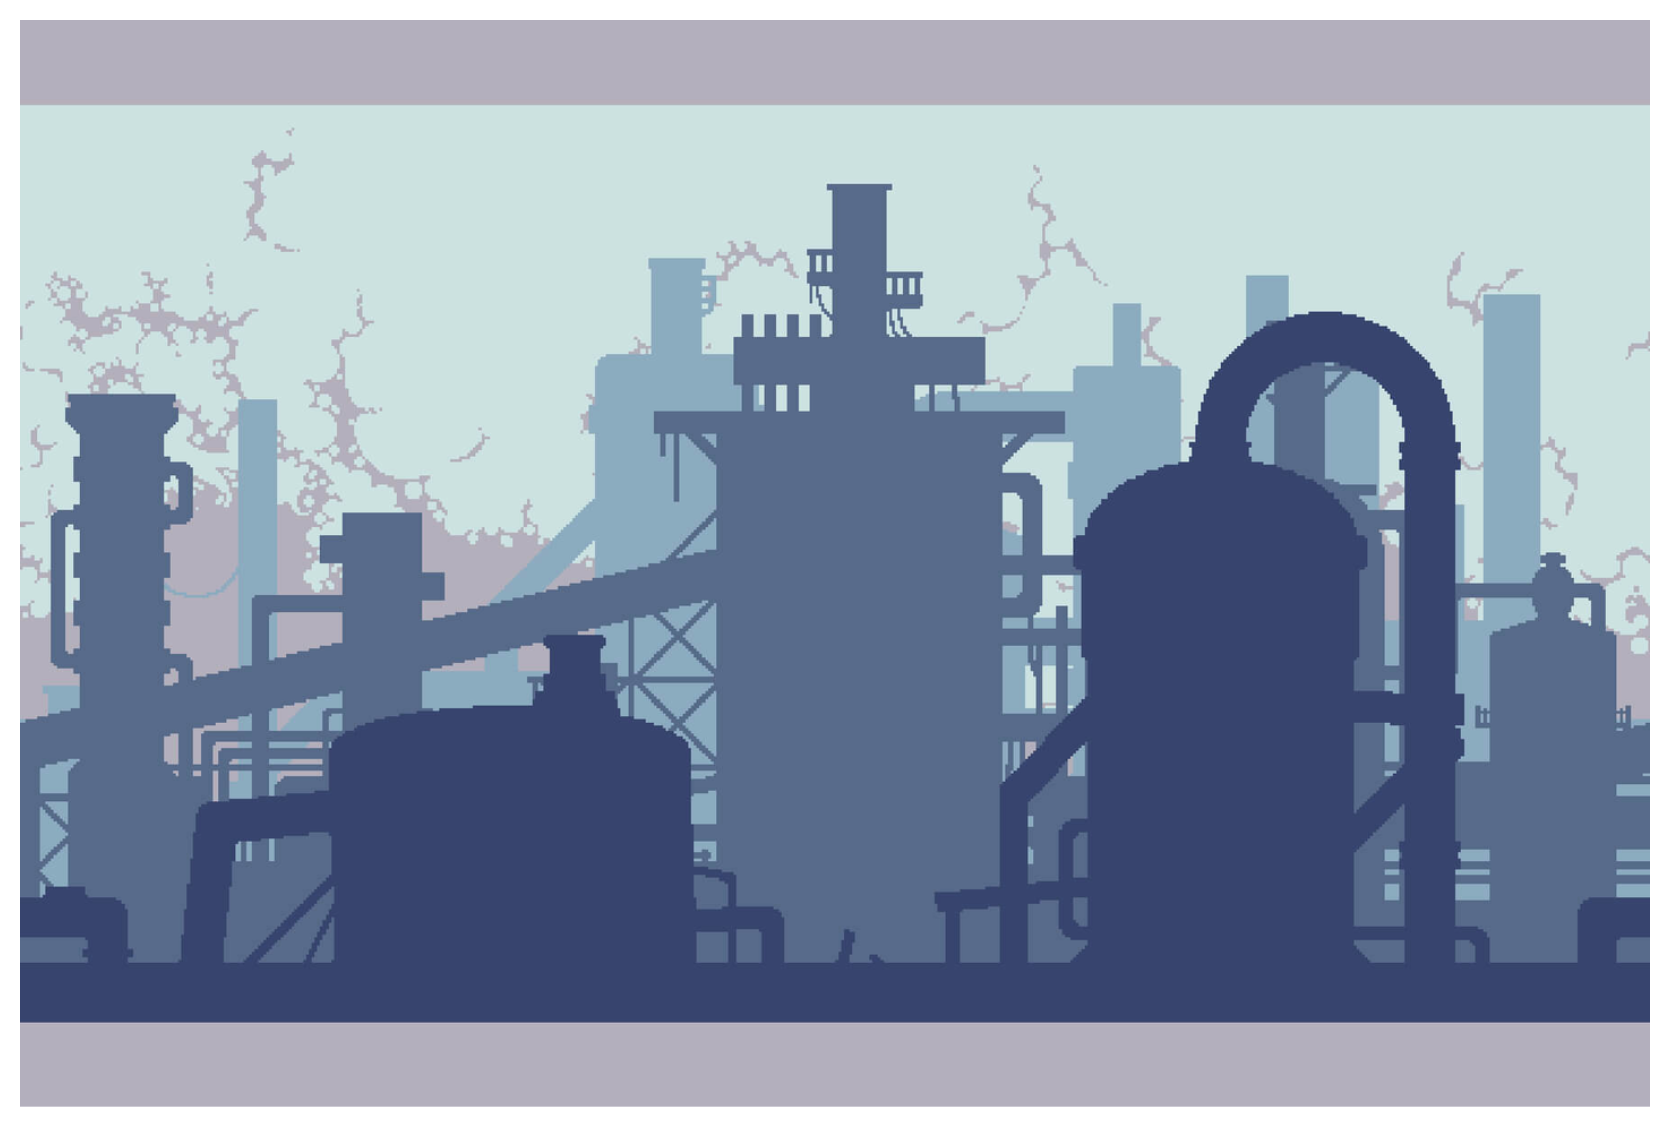
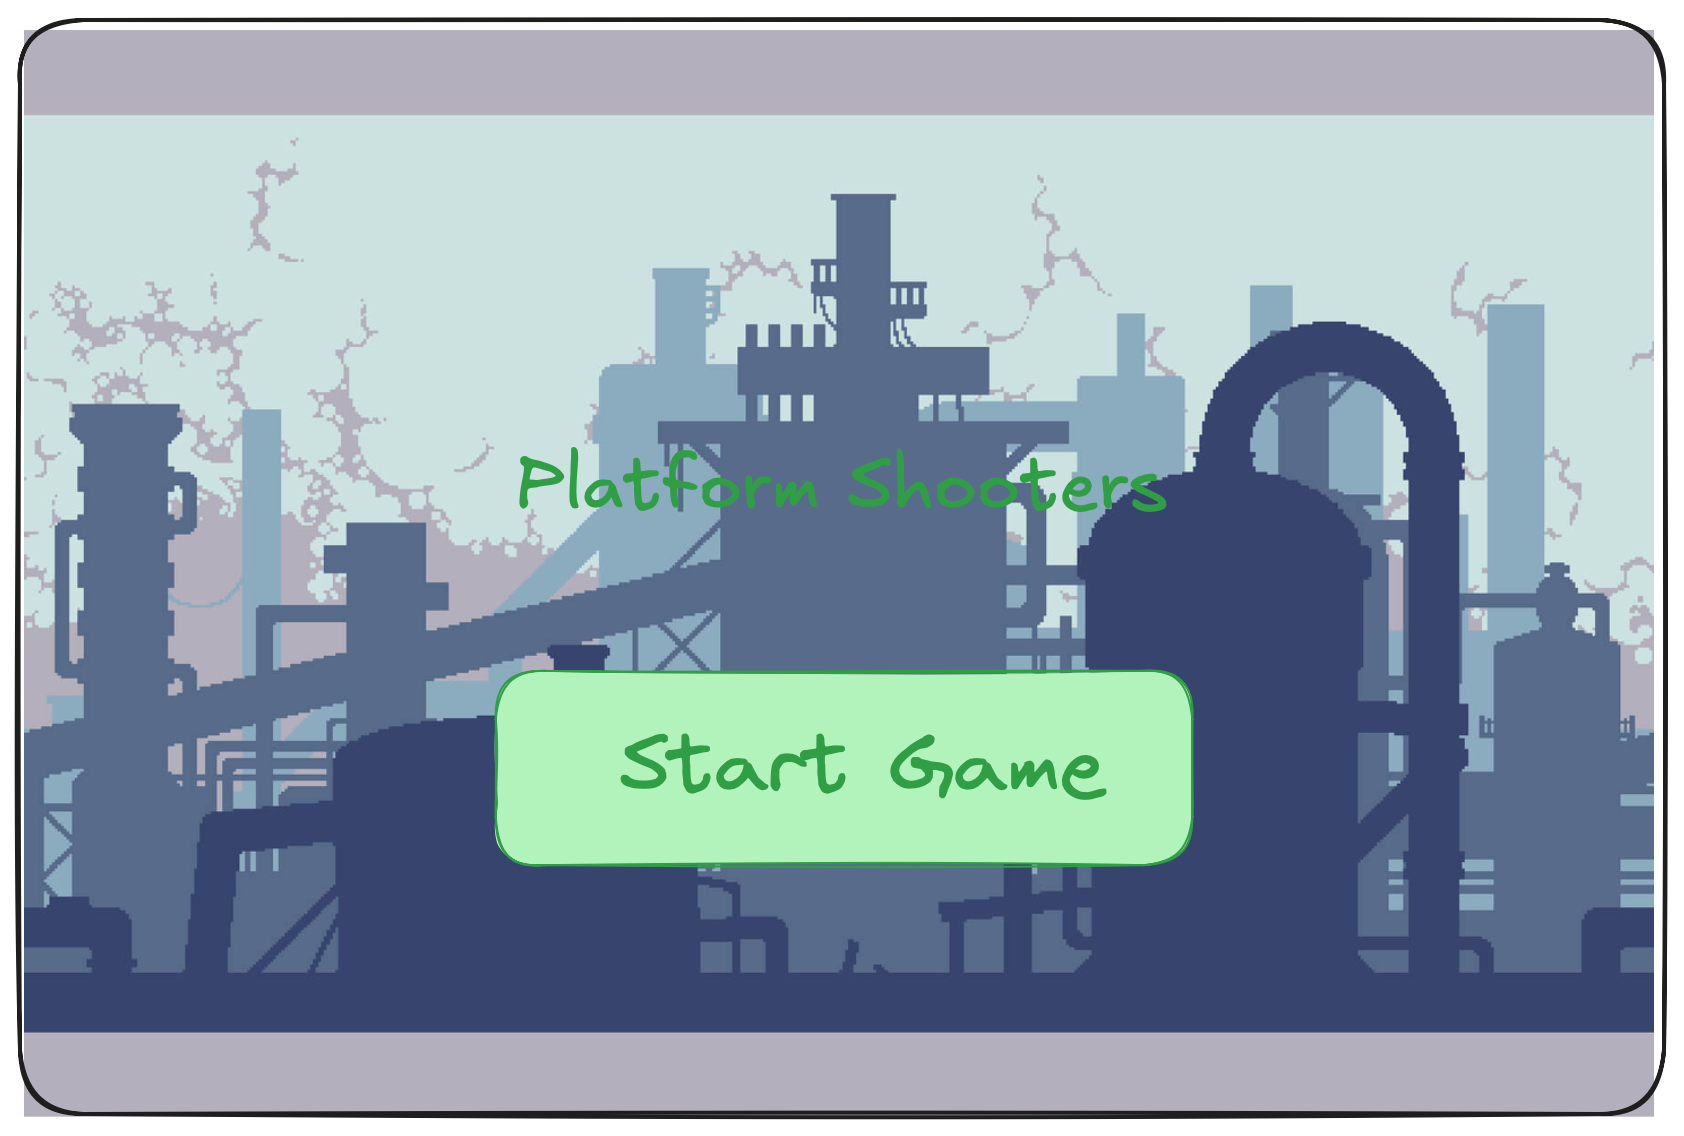
initial completion of proposal

diff --git a/README.md b/README.md
@@ -16,7 +16,7 @@ dont mention sprites, states, tweens/animations, simply mention what is specific
 # Final Project
 
 -   [X] Read the [project requirements](https://vikramsinghmtl.github.io/420-5P6-Game-Programming/project/requirements).
--   [ ] Replace the sample proposal below with the one for your game idea.
+-   [X] Replace the sample proposal below with the one for your game idea.
 -   [ ] Get the proposal greenlit by Vik.
 -   [ ] Place any assets in `assets/` and remember to update `src/config.json`.
 -   [ ] Decide on a height and width inside `src/globals.js`. The height and width will most likely be determined based on the size of the assets you find.
@@ -37,11 +37,12 @@ In this 2d platform game, 2 players are positioned on a rooftop with the purpose
 ## 🕹 Gameplay
 
 Each round start with each player positioned on an extremity of the roof. Players can not walk, instead they are constantly rocking back and forth and need to time their jump in order to go in the direction they want. The weapon mechanic is also unconventional, in order to aim, players need to raise their arm and let go of the trigger when they think the weapon is oriented at the proper angle in order to hit the other player. All weapons are ranged and have different aspects.
+
 * Bazooka: The projectile coming out of the weapon  has a travel time and is heavier, allowing for more knocking out potential on hit. (If spare time at the end, projectile could have a shockwave that ejects the enemy if they are close enough to where it exploded)
 
 * Handgun: project has no travel time, instant hit but lower weight with less knocking out potential.
 
-* AK47: Shoots a wave of 3 bullets on release, bullets have a travel time (low), relatively high knocking out potential.
+* Lazer: Shoots a lazer beem for a second, relatively high knocking out potential.
 
 * Axe throwing: Very short range, but projectile loses speed very quickly, players need to get close to each others for max effect.
 
@@ -85,9 +86,6 @@ If players get close enough to each others, they could use their own body to pus
 
 ### State Diagram
 
-> [!note]
-> Remember that you'll need diagrams for not only game states but entity states as well.
-
 ![State Diagram](./assets/images/StateDiagram_ours.png)
 
 ### Player State Diagram
@@ -99,54 +97,67 @@ If players get close enough to each others, they could use their own body to pus
 ![Class Diagram](./assets/images/ClassDiagram_ours.png)
 
 ### 🧵 Wireframes
+THe following is a pretty rough decison. The main text is there but the color scheme and fonts are not. We will have some tweening in the navigations between most screens.
 
-> [!note]
-> Your wireframes don't have to be super polished. They can even be black/white and hand drawn. I'm just looking for a rough idea about what you're visualizing.
+![Title Screen](./assets/images/wireframe/TitleScreen.png)
 
-![Main Menu](./assets/images/Main-Menu.png)
+-   _Start Game_ will navigate to the select number of players screen.
 
--   _Let's Play_ will navigate to the main game.
--   _Upload Cards_ will navigation to the forms for uploading and parsing the data files for the game.
--   _Change Log_ will navigate the user to a page with a list of features/changes that have been implemented throbughout the development of the game.
+![Number of Players Screen](./assets/images/wireframe/NbPlayersScreen.png)
 
-![Game Board](./assets/images/Game-Board.png)
+-   _1 Player_ will navigate to the Setup Screen with 1 player selected
+-   _2 Players_ will navigate to the Setup Screen with 2 players selected
 
-We want to keep the GUI as simple and clear as possible by having cards with relevant images to act as a way for the user to intuitively navigate the game. We want to implement a layout that would look like as if one were playing a match of the Pokémon Trading Card Game with physical cards in real life. Clicking on any of the cards will reveal that card's details to the player.
+![Setup Screen](./assets/images/wireframe/SetupScreen.png)
+
+-   _jump w_ will navigate to the Play Screen. The player must click on the jump button to go to the play screen. If the player chose 2 Players then we will see both Jump and Shoot for both players and both players must press the Jump button.
+
+![Play Screen](./assets/images/wireframe/PlayScreen.png)
+
+-   The main gameplay in here, players will have their weapons down initially and will be leaning back and forth. They can jump or shoot. We see the score up there.
+- _Pause_ (at top right in later screens) will navigate to the Pause State. No tweening in this navigation. 
+
+![Pause Screen](./assets/images/wireframe/PauseScreen.png)
+
+-   _Resume_ will navigate back to the Play Screen keeping the current location of players and score. No tween in this navigation.
+- _Exit_ will navigate to the TitleScreen.
+
+![Round Over Screen](./assets/images/wireframe/RoundOverScreen.png)
+
+- When a player falls off he will be stopped at the edge of the screen. The text will be animated into the view and the score will be updated. The text will be on a panel, not just plain text.
+
+![Game Over Screen](./assets/images/wireframe/GameOverScreen.png)
+
+- When a player reachers 5 points the game ends and we see which player won. Pretty Straightforward. There will be a button to exit and a button to restart game similar to the Pause Screen which will navigate you back to the Setup Screen.
 
 ### 🎨 Assets
 
-We used [app.diagrams.net](https://app.diagrams.net/) to create the wireframes. Wireframes are the equivalent to the skeleton of a web app since they are used to describe the functionality of the product and the users experience.
+We used [excalidraw](https://excalidraw.com) to create the wireframes.
 
-We plan on following trends already found in other trading card video games, such as Pokémon Trading Card Game Online, Hearthstone, Magic the Gathering Arena, and Gwent.
-
-The GUI will be kept simple and playful, as to make sure the game is easy to understand what each component does and is, as well as light hearted to keep to the Pokémon theme.
+We plan on following trends already found in other similar friv games. The GUI will be kept simple and playful, as to make sure the game is easy to understand and play.
 
 #### 🖼 Images
 
--   Most images will be used from the well known community driven wikipedia site, [Bulbapedia](https://bulbapedia.bulbagarden.net/wiki/Main_Page).
--   Especially their [Trading Card Game section](<https://bulbapedia.bulbagarden.net/wiki/Full_Art_card_(TCG)>).
+Most images will be used from the following tilesets:
 
-https://craftpix.net/freebies/free-guns-pack-2-for-main-characters-pixel-art/
-https://craftpix.net/freebies/free-industrial-zone-tileset-pixel-art/
+- [Characters](https://craftpix.net/freebies/free-guns-pack-2-for-main-characters-pixel-art/)
+- [Map](https://craftpix.net/freebies/free-industrial-zone-tileset-pixel-art/)
 
 #### ✏ Fonts
 
 fonts gonna come from the tileset downloaded
 
-For fonts, a simple sans-serif like Roboto will look quite nice. It's a font that is legible, light on storage size, and fun to keep with the theme we're going for. We also used a more cartoonish Pokemon font for the title screen.
+For fonts, a simple sans-serif like Roboto will look quite nice. It's a font that is legible, light on storage size, and fun to keep with the theme we're going for. We also used a more futuristic font for the title screen, so we will be using the font that is provided in the tileset.
 
 -   [Titles Font](https://www.dafont.com/futuremillennium.font)
 -   [Roboto](https://fonts.google.com/specimen/Roboto)
 
 #### 🔊 Sounds
 
-All sounds were taken from [freesound.org](https://freesound.org) for the actions pertaining to cards.
+All sounds were taken from [101soundboards.com](https://www.101soundboards.com/sounds/) for the actions and effects.
 
-https://www.101soundboards.com/sounds/1531023-bazooka
-
--   [Shuffle cards](https://freesound.org/people/VKProduktion/sounds/217502/)
--   [Flip card](https://freesound.org/people/Splashdust/sounds/84322/)
+-   [Bazooka Sound effect](https://www.101soundboards.com/sounds/1531023-bazooka)
 
 ### 📚 Physics Engine
 
-We wish to use matter.js as our phyics engine for this project similarly to angry birds. As shown in the class diagram, most things are Rectangles or Circles
+We wish to use **matter.js** as our phyics engine for this project similarly to angry birds. As shown in the class diagram, most things are Rectangles or Circles
